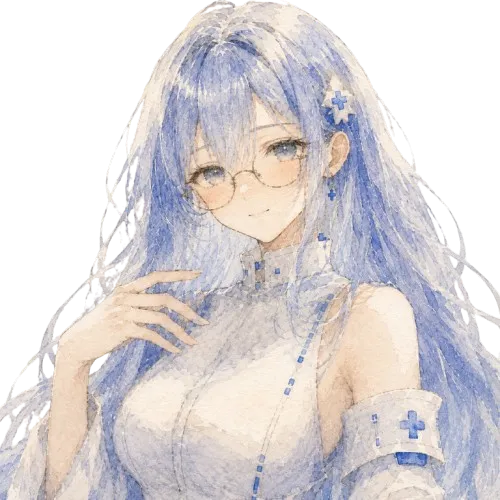
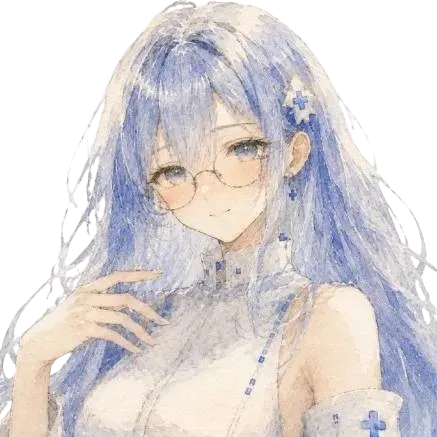
koko

diff --git a/js/battle_32_ui.js b/js/battle_32_ui.js
@@ -6349,16 +6349,25 @@ function _onStatusChangeEvent(data) {
  const isRapid = hitStyle === 'rapid';
  const isRapidMulti = hitStyle === 'rapid_multi';
 
- // 味方→敵 / 敵→味方のダメージ時に、俯瞰グリッドから一瞬アップ演出へ切り替える。
- // 味方1体が複数敵へ同時ヒットした場合は、短時間バッファして複数対象アップ演出に束ねる。
- // rapid_multi はアップ演出側で敵画像上部に5連撃を出すため、グリッド側の数値・フラッシュは出さない。
- try {
-   _queueAttackCinematic(data);
- } catch (e) {
-   // 攻撃アップ演出が壊れても、通常の盤面ヒット演出とHP更新表示は止めない。
-   console.error('[Battle32UI] attack cinematic failed', e, data);
+ // 通常攻撃ダメージは「UP演出内だけ」で表示する。
+ // 旧処理ではUP演出を開始した後も、この関数の後半でグリッド上の
+ // ヒット演出・ダメージ数字を重ねていたため、同じダメージが2段階に見えていた。
+ const isAttackCinematicTarget = !!(
+   data.source && data.target && (
+     (data.source.side === 'ally' && data.target.side === 'enemy') ||
+     (data.source.side === 'enemy' && data.target.side === 'ally')
+   )
+ );
+
+ if (isAttackCinematicTarget) {
+   try {
+     _queueAttackCinematic(data);
+     return; // グリッド側のダメージ数字・ヒット演出は行わない
+   } catch (e) {
+     // UP演出を開始できなかった場合だけ、後段のグリッド演出へフォールバックする。
+     console.error('[Battle32UI] attack cinematic failed; fallback to grid damage fx', e, data);
+   }
  }
- if (isRapidMulti) return;
 
  // shakeVariant: ULT > heavy > normal
  const shakeVariant = isUlt ? 'ult' : isHeavy ? 'heavy' : '';
@@ -10255,54 +10264,76 @@ root.style.setProperty('--cell-size', `${cellSize}px`);
 
  if (window.Battle32._uiHooked) return;
 
- const originalStart = window.Battle32.start;
- window.Battle32.start = function (config, callbacks) {
-
-  // ★追加：バトル開始。UI描画を許可する
-  window.__BATTLE32_UI_ACTIVE__ = true;
-
-  _resetSkillState();
-  _hideAllScreens();
-
- // damage / heal コールバックを UI 演出に接続
- // UI演出と外部callbacks を両方呼ぶ（どちらかが undefined でも安全）
- const userCb = callbacks || {};
- 
- const uiCallbacks = {
- ...userCb,
- damage: (data) => {
- window._b32OnDamage && window._b32OnDamage(data);
- if (typeof userCb.damage === 'function') userCb.damage(data);
- },
- heal: (data) => {
- window._b32OnHeal && window._b32OnHeal(data);
- if (typeof userCb.heal === 'function') userCb.heal(data);
- },
- statusChange: (data) => {
- window._b32OnStatusChange && window._b32OnStatusChange(data);
- if (typeof userCb.statusChange === 'function') userCb.statusChange(data);
- },
- coreDamage: (data) => {
- window._b32OnCoreDamage && window._b32OnCoreDamage(data);
- if (typeof userCb.coreDamage === 'function') userCb.coreDamage(data);
- },
- };
-
- // rogueliteOnBattleEnd をラップするが、ローグライト中はここでUI掃除しない。
- // ここで共通UIを復帰させると、報酬/次ステージ移管の一瞬にステージ選択画面が見えるため、
- // Battle32の盤面を残したまま RogueliteController 側の演出・遷移管理へ渡す。
- const wrappedConfig = Object.assign({}, config);
- if (typeof wrappedConfig.rogueliteOnBattleEnd === 'function') {
-   const originalRogueliteEnd = wrappedConfig.rogueliteOnBattleEnd;
-   wrappedConfig.rogueliteOnBattleEnd = function (payload) {
-     window.__ROGUELITE_TRANSITIONING__ = true;
-     originalRogueliteEnd(payload);
+ function buildUiCallbacks(callbacks) {
+   const userCb = callbacks || {};
+   return {
+     ...userCb,
+     damage: (data) => {
+       window._b32OnDamage && window._b32OnDamage(data);
+       if (typeof userCb.damage === 'function') userCb.damage(data);
+     },
+     heal: (data) => {
+       window._b32OnHeal && window._b32OnHeal(data);
+       if (typeof userCb.heal === 'function') userCb.heal(data);
+     },
+     statusChange: (data) => {
+       window._b32OnStatusChange && window._b32OnStatusChange(data);
+       if (typeof userCb.statusChange === 'function') userCb.statusChange(data);
+     },
+     coreDamage: (data) => {
+       window._b32OnCoreDamage && window._b32OnCoreDamage(data);
+       if (typeof userCb.coreDamage === 'function') userCb.coreDamage(data);
+     },
    };
  }
 
- originalStart.call(window.Battle32, wrappedConfig, uiCallbacks);
- window.renderBattle32UI();
+ function wrapRogueliteEnd(config) {
+   const wrappedConfig = Object.assign({}, config || {});
+   if (typeof wrappedConfig.rogueliteOnBattleEnd === 'function') {
+     const originalRogueliteEnd = wrappedConfig.rogueliteOnBattleEnd;
+     wrappedConfig.rogueliteOnBattleEnd = function (payload) {
+       window.__ROGUELITE_TRANSITIONING__ = true;
+       return originalRogueliteEnd(payload);
+     };
+   }
+   return wrappedConfig;
+ }
+
+ const originalStart = window.Battle32.start;
+ window.Battle32.start = function (config, callbacks) {
+   window.__BATTLE32_UI_ACTIVE__ = true;
+   _resetSkillState();
+   _hideAllScreens();
+
+   const uiCallbacks = buildUiCallbacks(callbacks);
+   const wrappedConfig = wrapRogueliteEnd(config);
+   originalStart.call(window.Battle32, wrappedConfig, uiCallbacks);
+   window.renderBattle32UI();
  };
+
+ // startだけでなくrestoreにも同じUIコールバックを注入する。
+ // これがないと再開後のdamageイベントがUP演出へ接続されない。
+ const originalRestore = window.Battle32.restore;
+ if (typeof originalRestore === 'function') {
+   window.Battle32.restore = function (savedState, callbacks) {
+     window.__BATTLE32_UI_ACTIVE__ = true;
+     _resetSkillState();
+     _hideAllScreens();
+
+     const mergedCallbacks = Object.assign({}, callbacks || {});
+     if (savedState && savedState.isRoguelite
+         && typeof mergedCallbacks.rogueliteOnBattleEnd !== 'function'
+         && window.RogueliteController
+         && typeof window.RogueliteController._createResumeBattleEndCallback === 'function') {
+       const resumeEnd = window.RogueliteController._createResumeBattleEndCallback();
+       if (typeof resumeEnd === 'function') mergedCallbacks.rogueliteOnBattleEnd = resumeEnd;
+     }
+
+     const restored = originalRestore.call(window.Battle32, savedState, buildUiCallbacks(mergedCallbacks));
+     window.renderBattle32UI();
+     return restored;
+   };
+ }
 
  window.Battle32._uiHooked = true;
  }

diff --git a/js/battle_32.js b/js/battle_32.js
@@ -217,6 +217,55 @@
   let _bs = null;   // バトルステート
   let _cb = null;   // コールバック群
 
+  // ローグライトのステージ間引き継ぎ。
+  // 現行ラン進行は各ステージで味方ユニットを新規生成するため、
+  // 前ステージでHP0になったキャラIDだけを保持し、次ステージではHP1で復帰させる。
+  const _rogueliteHp1CarryByRun32 = new Map();
+
+  function _getRogueliteRunKey32(config) {
+    if (!config) return 'default';
+    return String(config.rogueliteRunId || config.runId || 'default');
+  }
+
+  function _getRogueliteStageNo32(config) {
+    const explicit = Number(config && (config.rogueliteStageNo ?? config.stageNo));
+    if (Number.isFinite(explicit) && explicit > 0) return Math.floor(explicit);
+
+    if (window.RogueliteRun && typeof window.RogueliteRun.getStageNo === 'function') {
+      const current = Number(window.RogueliteRun.getStageNo());
+      if (Number.isFinite(current) && current > 0) return Math.floor(current);
+    }
+
+    const stageId = String(config && config.stageId || '');
+    const match = stageId.match(/(?:_|-)(\d+)$/);
+    return match ? Math.max(1, Number(match[1])) : 1;
+  }
+
+  function _prepareRogueliteHp1Carry32(config, isRogueliteMode) {
+    if (!isRogueliteMode) return new Set();
+    const runKey = _getRogueliteRunKey32(config);
+    const stageNo = _getRogueliteStageNo32(config);
+
+    // 第1ステージは新しいランとして扱い、前回ランの持越しを消す。
+    if (stageNo <= 1) _rogueliteHp1CarryByRun32.set(runKey, new Set());
+    if (!_rogueliteHp1CarryByRun32.has(runKey)) _rogueliteHp1CarryByRun32.set(runKey, new Set());
+    return _rogueliteHp1CarryByRun32.get(runKey);
+  }
+
+  function _rememberRogueliteZeroHp32() {
+    if (!_bs || !_bs.isRoguelite) return;
+    const runKey = String(_bs.rogueliteRunId || 'default');
+    const zeroHpIds = new Set();
+
+    (_bs.roster || []).forEach(entry => {
+      if (!entry) return;
+      const unit = (_bs.allies || []).find(ally => ally && ally._uid === entry.deployedUid);
+      if (unit && Number(unit.hp || 0) <= 0) zeroHpIds.add(Number(entry.charaId));
+    });
+
+    _rogueliteHp1CarryByRun32.set(runKey, zeroHpIds);
+  }
+
   // ターン演出・フェーズ進行の二重起動防止
   let _allyTurnFlowRunning = false;
   let _enemyTurnFlowRunning = false;
@@ -1100,6 +1149,7 @@ const enemies = enemyDefs.map(def => {
 
     // ── ローグライトモードのroster構築 ──
     const isRogueliteMode = config.battleMode === 'roguelite' || typeof config.rogueliteOnBattleEnd === 'function';
+    const hp1CarryIds = _prepareRogueliteHp1Carry32(config, isRogueliteMode);
     let rosterData = [];
     let initialAllies = allies;
 
@@ -1124,6 +1174,7 @@ const enemies = enemyDefs.map(def => {
 
         if (isFixedFirst) {
           const unit = makeAlly(charDef, ROGUELITE_ERI_START_POS.row, ROGUELITE_ERI_START_POS.col);
+          if (hp1CarryIds.has(Number(pid))) unit.hp = 1;
           unit.isFixedFirst = true;
           initialAllies.push(unit);
           fixedDeployedUid = unit._uid;
@@ -1138,6 +1189,7 @@ const enemies = enemyDefs.map(def => {
           status: isFixedFirst ? 'deployed' : 'standby',
           deployedUid: isFixedFirst ? fixedDeployedUid : null,
           fixedFirst: isFixedFirst,
+          stageStartHp: hp1CarryIds.has(Number(pid)) ? 1 : null,
           charDef,
         };
       }).filter(Boolean);
@@ -1147,6 +1199,8 @@ const enemies = enemyDefs.map(def => {
       turn: 1,
       phase: 'skill',
       stageId,
+      rogueliteRunId: isRogueliteMode ? _getRogueliteRunKey32(config) : null,
+      rogueliteStageNo: isRogueliteMode ? _getRogueliteStageNo32(config) : null,
       allies: initialAllies,
       enemies,
       log: [],
@@ -1385,6 +1439,13 @@ const enemies = enemyDefs.map(def => {
       summons: _bs.summons ? _bs.summons.map(u => ({ ...u, statusEffects: [...(u.statusEffects || [])] })) : [],
 
       isRoguelite: !!_bs.isRoguelite,
+      // 再開時にローグライトラン本体を再構築するための進行メタデータ
+      rogueliteRunId: _bs.rogueliteRunId || null,
+      rogueliteStageNo: Number(_bs.rogueliteStageNo || 0) || null,
+      rogueliteOptions: Array.isArray(_bs.rogueliteOptions)
+        ? _bs.rogueliteOptions.map(op => ({ ...op }))
+        : [],
+      isBossStage: !!_bs.isBossStage,
       cores: null,
       bossCore: null,
       turnLimit: null,
@@ -5816,6 +5877,10 @@ function doBossLineAttack(boss) {
   _setTurnDangerAlert(false);
 
   const cb = _bs._rl_onBattleEnd;
+
+  // 勝利時点でHP0のキャラを記録し、次ステージではHP1で復帰させる。
+  if (result === 'win') _rememberRogueliteZeroHp32();
+
   const aliveAllies = (_bs.allies || []).filter(unit => unit && Number(unit.hp || 0) > 0);
   const payload = {
     result,
@@ -6205,6 +6270,7 @@ function doBossLineAttack(boss) {
     if (!_spendLink(summonCost, `${rEntry.name} 召喚`)) return false;
 
     const unit = makeAlly(rEntry.charDef, row, col);
+    if (Number(rEntry.stageStartHp) === 1) unit.hp = 1;
     _applyBlessingHpPassive32(unit);
     _applyRogueliteOptionsToUnit(unit);
     _bs.allies.push(unit);
@@ -6494,6 +6560,19 @@ function restore(savedState, callbacks) {
   _enemyTurnFlowRunning = false;
 
   _bs = deepClone(savedState);
+
+  // アプリ再起動後は RogueliteRun のメモリ状態も消えている。
+  // Battle32の保存状態から先にランを復元し、その後で終了コールバックを再生成する。
+  if (_bs.isRoguelite && window.RogueliteRun
+      && typeof window.RogueliteRun.isActive === 'function'
+      && !window.RogueliteRun.isActive()
+      && typeof window.RogueliteRun.restoreFromBattleState === 'function') {
+    try {
+      window.RogueliteRun.restoreFromBattleState(_bs);
+    } catch (e) {
+      console.warn('[Battle32] roguelite run restore error:', e);
+    }
+  }
 
   // JSON保存では関数が消えるため、ローグライト終了コールバックを再接続する。
   const resumeBattleEnd =

diff --git a/js/roguelite_run.js b/js/roguelite_run.js
@@ -501,6 +501,53 @@
     return 'E';
   }
 
+
+  // アプリ再起動後、Battle32の保存スナップショットからラン進行を再構築する。
+  // OPはJSON化で関数を失うため、IDからマスター定義へ戻す。
+  function restoreFromBattleState(saved) {
+    if (!saved || !saved.isRoguelite) return false;
+
+    const runId = String(saved.rogueliteRunId || 'default');
+    const runDef = getRunDef(runId);
+    if (!runDef) return false;
+
+    const rosterIds = Array.isArray(saved.roster)
+      ? saved.roster.map(r => Number(r && r.charaId)).filter(Number.isFinite)
+      : [];
+    const partyIds = normalizeRoguelitePartyIds(rosterIds);
+
+    const optionSnapshots = Array.isArray(saved.rogueliteOptions) ? saved.rogueliteOptions : [];
+    const restoredOptions = optionSnapshots.map(op => {
+      if (!op) return null;
+      if (typeof window.getOptionById === 'function' && op.id) {
+        const master = window.getOptionById(op.id);
+        if (master) return master;
+      }
+      return op;
+    }).filter(Boolean);
+
+    const maxStage = Array.isArray(runDef.stageDefs) ? runDef.stageDefs.length : 1;
+    const requestedStage = Math.max(1, Number(saved.rogueliteStageNo || 1));
+
+    _state = {
+      active: true,
+      runId: runDef.id,
+      runName: runDef.name,
+      debugOnly: runDef.debugOnly === true,
+      stageNo: Math.min(maxStage, requestedStage),
+      options: restoredOptions,
+      items: Array.isArray(saved.items) ? saved.items.map(i => ({ ...i })) : [],
+      totalTurns: Math.max(0, Number(saved.rogueliteTotalTurns || 0)),
+      stageTurns: Array.isArray(saved.rogueliteStageTurns) ? saved.rogueliteStageTurns.slice() : [],
+      partyIds,
+      blessingId: saved.blessing && saved.blessing.id ? saved.blessing.id : null,
+      result: null,
+    };
+
+    console.log('[RogueliteRun] Battle32保存状態からラン復元:', _state);
+    return true;
+  }
+
   function advance() {
     if (!_state || !_state.active) return;
     const runDef = getRunDef(_state.runId);
@@ -612,6 +659,7 @@
     getStageTurns,
     getClearRank,
     getClearRankConditions,
+    restoreFromBattleState,
     advance,
     end,
     buildBattleConfig,

diff --git a/js/characters.js b/js/characters.js
@@ -702,7 +702,7 @@ skills: [
       3: { comboTriggerRange: 'combo_x_all' },
       4: { hitAndAwayLinkRefund: 1, hitAndAwayLinkRefundPerTurn: 1 }
     },
-    uiScale: {panel: 1.0,battleBack: 1.0,battleUp: 1.0},
+    uiScale: {panel: 1.0,battleBack: 1.25,battleUp: 1.0},
     combo: {
       range: 'combo_x_1',
       skill: { id: 'combo', name: '閃光追駆', type: 'attack', multiplier: 0.65, range: 'front_row_3_ally', effects: [], hitStyle: 'rapid', desc: '斜め隣接4マスの味方スキルに反応し、前方横3マスの敵へ高速追撃する。' }
